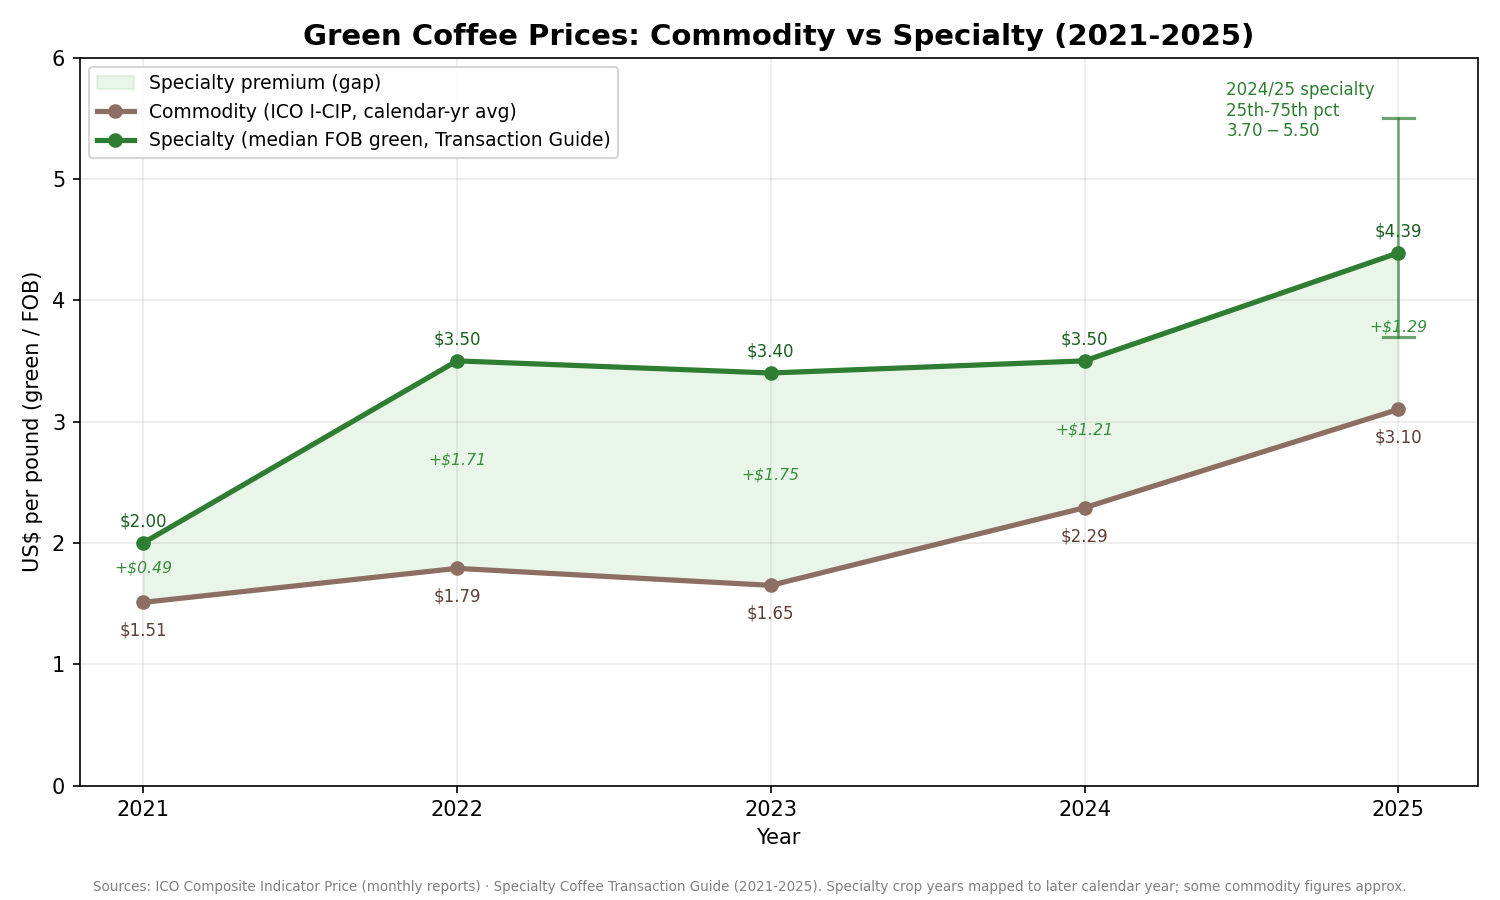
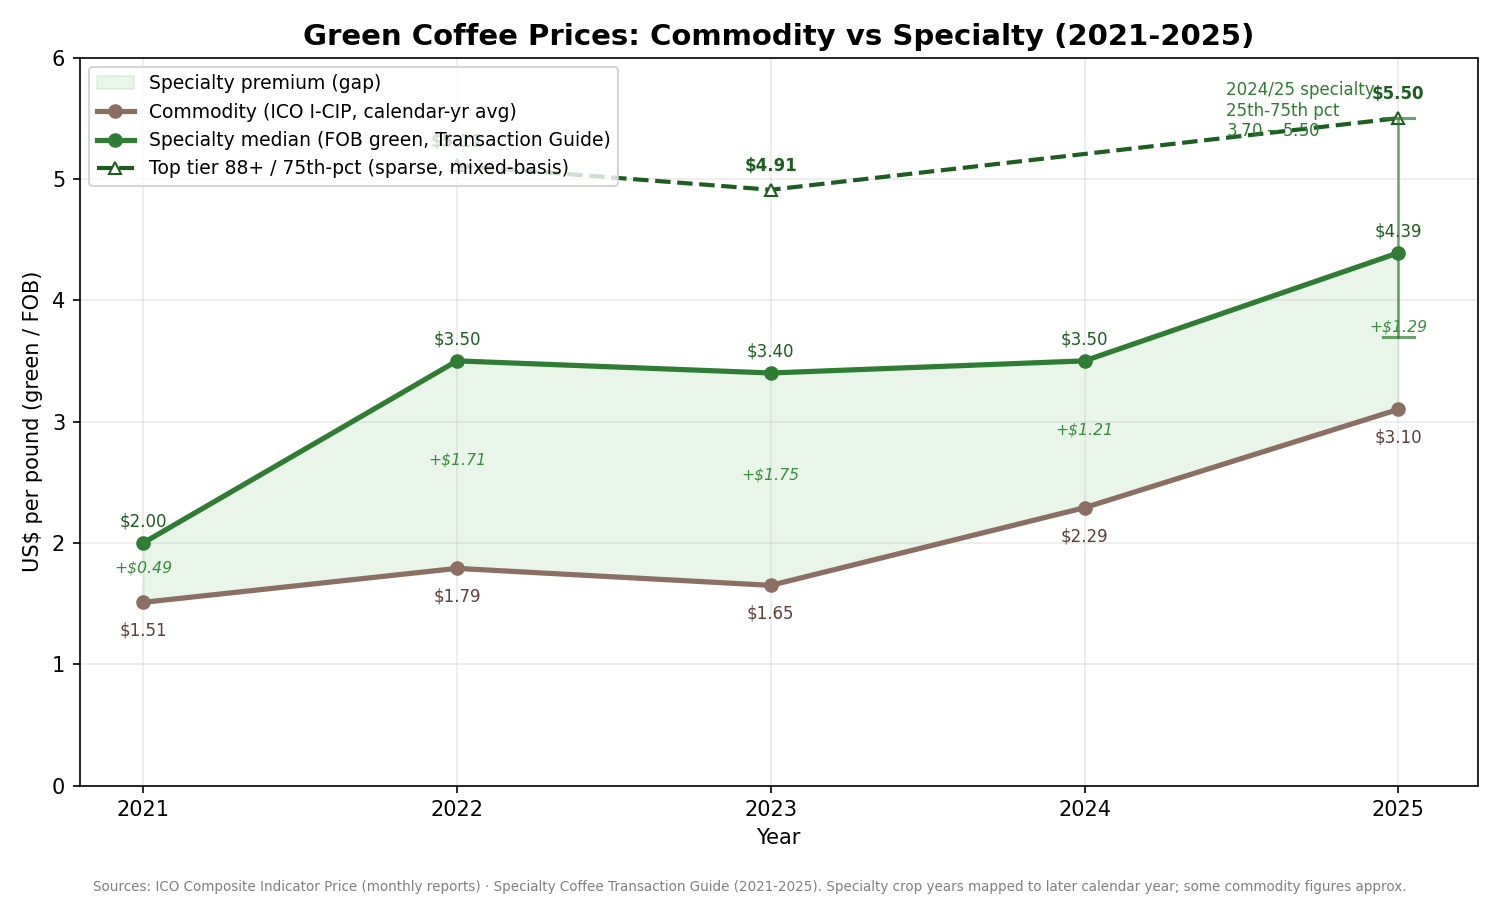
Add top-tier 88+ line to coffee price chart and dataset
Adds a third, sparse high-score line (cup-88+ / top-quartile) to the
commodity-vs-specialty chart and dataset, anchored on the few
defensible Transaction Guide figures ($5.11 88+ median 2021/22,
$4.91 87-pt proxy 2022/23, $5.50 75th-pct 2024/25). Points without a
defensible figure (2021, 2024) are omitted rather than fabricated,
with a clear mixed-basis caveat.

https://claude.ai/code/session_01CCZzZKjKYyeSrFnBSa1gvp

Changed region(s): [[0.0613, 0.1244, 0.644, 0.2178], [0.828, 0.0933, 0.9507, 0.1556], [0.644, 0.1556, 0.7973, 0.1867]]

diff --git a/FINCA-DUNA/plot_coffee_prices.py b/FINCA-DUNA/plot_coffee_prices.py
@@ -25,6 +25,14 @@ specialty = [2.00, 3.50, 3.40, 3.50, 4.39]
 # Specialty 25th-75th percentile band is only published for the latest year (2024/25)
 spec_lo_2025, spec_hi_2025 = 3.70, 5.50
 
+# High-score / top-tier line (88+). SPARSE, MIXED-BASIS DATA - only anchors we can defend:
+#   2022 (2021/22): $5.11  = median for cup 88+ (solid)
+#   2023 (2022/23): $4.91  = 87-pt, 1,000-lb lot (proxy for high tier)
+#   2025 (2024/25): $5.50  = 75th-percentile of all specialty (high-score proxy, solid)
+# 2021 and 2024 omitted - no defensible 88+ figure found in accessible sources.
+topyears = [2022, 2023, 2025]
+toptier = [5.11, 4.91, 5.50]
+
 fig, ax = plt.subplots(figsize=(10, 6))
 
 # Shade the premium (gap) between specialty and commodity
@@ -36,7 +44,15 @@ ax.plot(years, commodity, marker="o", linewidth=2.5, color="#8d6e63",
         label="Commodity (ICO I-CIP, calendar-yr avg)")
 # Specialty line
 ax.plot(years, specialty, marker="o", linewidth=2.5, color="#2e7d32",
-        label="Specialty (median FOB green, Transaction Guide)")
+        label="Specialty median (FOB green, Transaction Guide)")
+# High-score / top-tier line (dashed, open markers = sparse/mixed-basis data)
+ax.plot(topyears, toptier, marker="^", markerfacecolor="white", linestyle="--",
+        linewidth=2.0, color="#1b5e20",
+        label="Top tier 88+ / 75th-pct (sparse, mixed-basis)")
+for x, y in zip(topyears, toptier):
+    ax.annotate(f"${y:.2f}", (x, y), textcoords="offset points",
+                xytext=(0, 9), ha="center", fontsize=8, color="#1b5e20",
+                fontweight="bold")
 
 # Latest-year specialty 25-75 percentile range as a vertical whisker
 ax.plot([2025, 2025], [spec_lo_2025, spec_hi_2025], color="#2e7d32",

diff --git a/FINCA-DUNA/TEMP-Research-Structure.md b/FINCA-DUNA/TEMP-Research-Structure.md
@@ -346,15 +346,15 @@ The commodity line above is the *floor*. The chart below overlays it with **spec
 
 ![Commodity vs specialty green coffee prices, 2021–2025](./coffee-price-trend.png)
 
-| Year | Commodity I-CIP ($/lb) | Specialty median FOB ($/lb) | Specialty premium |
-|------|------------------------|------------------------------|-------------------|
-| 2021 | ≈ 1.51 | 2.00 | +$0.49 |
-| 2022 | ≈ 1.79 | 3.50 | +$1.71 |
-| 2023 | 1.65 | 3.40 | +$1.75 |
-| 2024 | 2.29 | 3.50 | +$1.21 |
-| 2025 | ≈ 3.10 | 4.39 | +$1.29 |
+| Year | Commodity I-CIP ($/lb) | Specialty median FOB ($/lb) | Top tier 88+ / 75th-pct ($/lb) | Specialty premium |
+|------|------------------------|------------------------------|--------------------------------|-------------------|
+| 2021 | ≈ 1.51 | 2.00 | — | +$0.49 |
+| 2022 | ≈ 1.79 | 3.50 | 5.11 *(88+ median)* | +$1.71 |
+| 2023 | 1.65 | 3.40 | ~4.91 *(87-pt lot, proxy)* | +$1.75 |
+| 2024 | 2.29 | 3.50 | — | +$1.21 |
+| 2025 | ≈ 3.10 | 4.39 | 5.50 *(75th-pct)* | +$1.29 |
 
-*Specialty = overall median FOB green price; Transaction Guide crop years (e.g. 2024/25) mapped to their later calendar year. In 2024/25 the specialty 25th–75th percentile range was $3.70–$5.50/lb, and 86–87.9-point lots had a median around $4.38/lb — i.e. quality scoring pushes well above the median line.*
+*Specialty median = overall median FOB green price; Transaction Guide crop years (e.g. 2024/25) mapped to their later calendar year. The **top-tier line is deliberately sparse and mixed-basis**: $5.11 (2021/22) is the median for cup-88+ lots, $4.91 (2022/23) is a 1,000-lb 87-point lot used as a proxy, and $5.50 (2024/25) is the 75th percentile of all specialty. We could not find a defensible clean 88+ median for 2021 or 2024 in accessible sources, so those points are omitted rather than fabricated. For 2023/24, 86–87.9-point lots had a median around $4.38/lb. The takeaway — top-quality lots clear ~$5/lb and the C-market barely touches them — holds; the precise per-year 88+ figures should be lifted straight from the by-score tables in the Transaction Guide PDFs before final use.*
 
 **What the overlay shows:**
 
